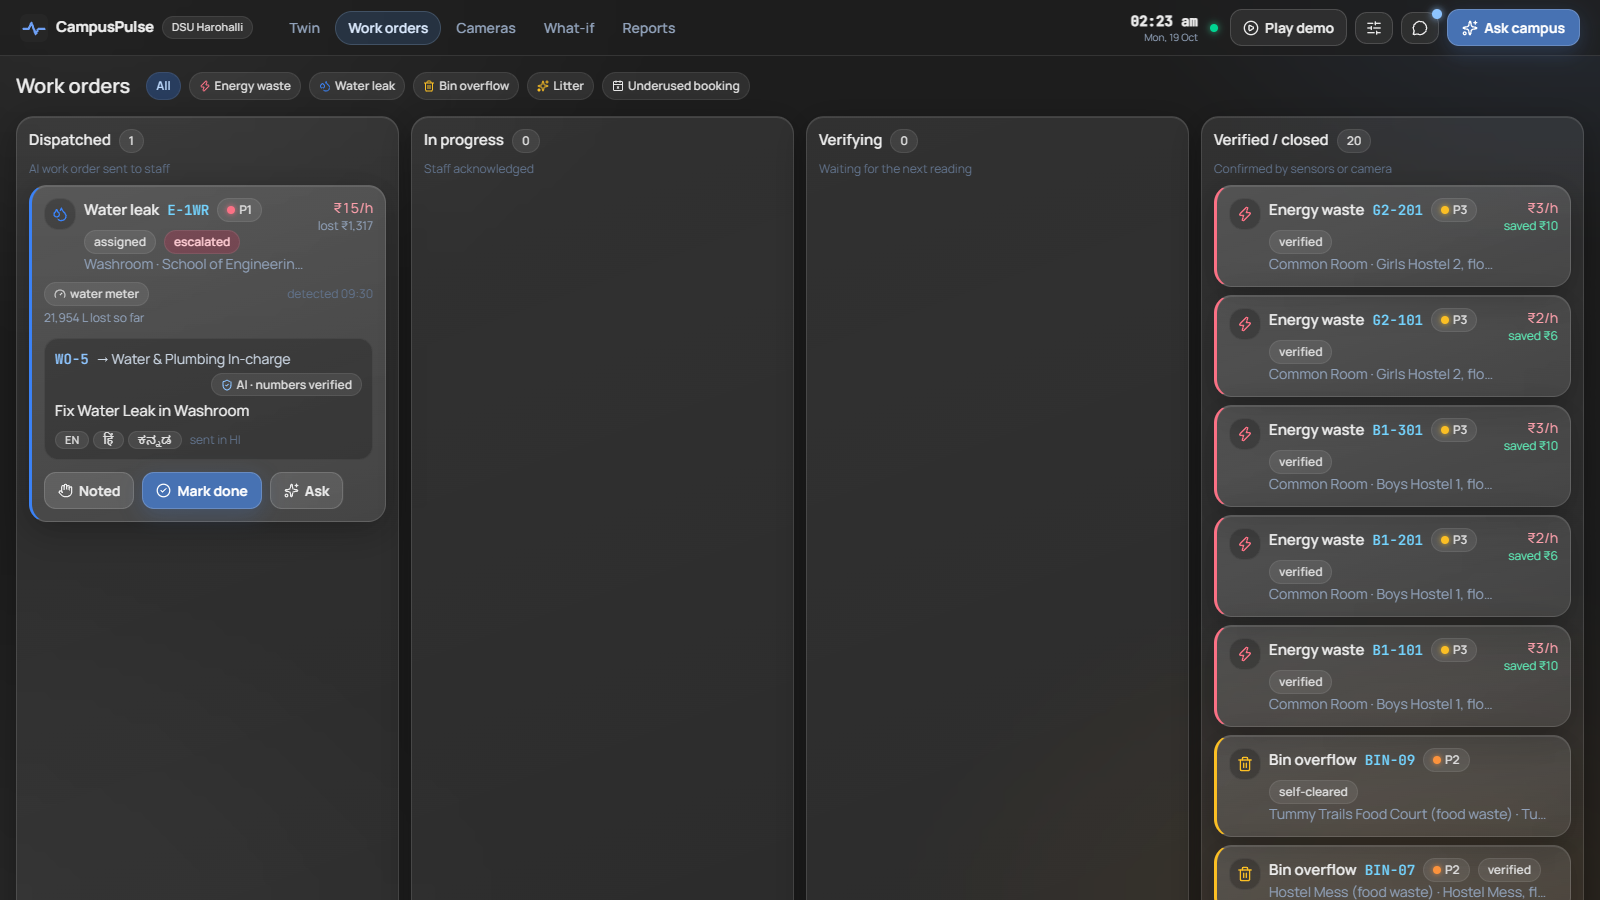
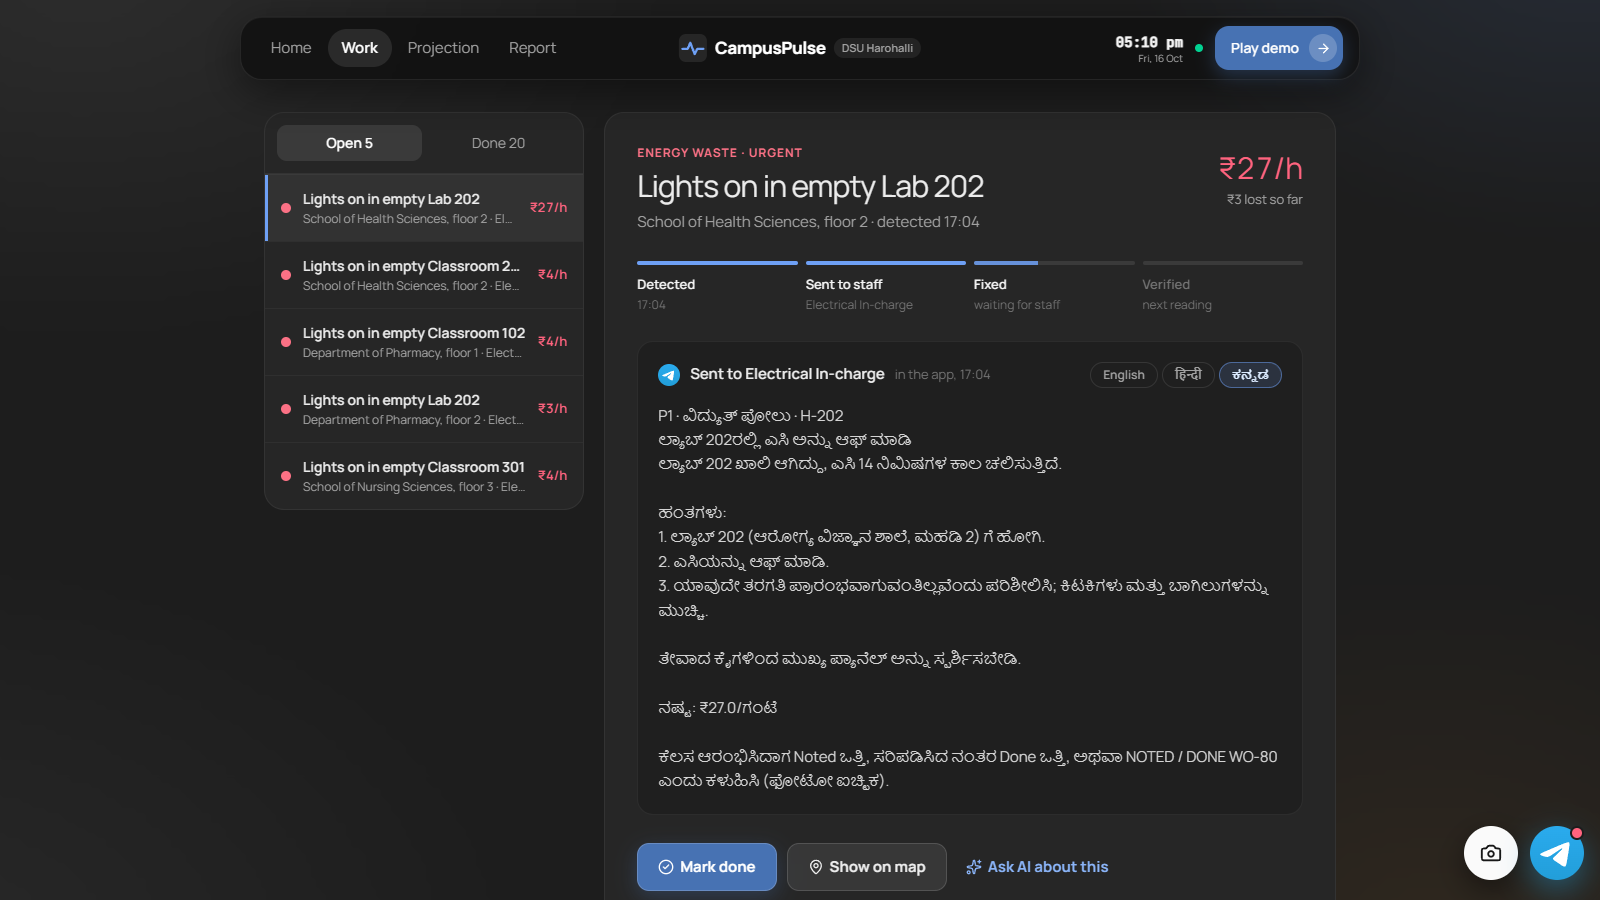
Work page: inbox list with work order detail, progress steps and the staff message

diff --git a/frontend/src/pages/IssuesPage.jsx b/frontend/src/pages/IssuesPage.jsx
@@ -1,46 +1,192 @@
-import { useState } from 'react'
-import IssueCard from '../components/IssueCard'
+// Work: an inbox of work orders on the left, the selected one in detail on the right.
+import { useEffect, useState } from 'react'
+import { useNavigate } from 'react-router-dom'
+import { CheckCircle2, MapPin, Sparkles } from 'lucide-react'
+import { api, hhmm, inr } from '../api'
 import { TYPE_META, useStore } from '../store'
-import { TypeIcon } from '../components/Icons'
+import TelegramIcon from '../components/TelegramIcon'
 
-const COLUMNS = [
-  { key: 'new', title: 'Dispatched', statuses: ['open', 'assigned'], hint: 'AI work order sent to staff' },
-  { key: 'progress', title: 'In progress', statuses: ['in_progress'], hint: 'Staff acknowledged' },
-  { key: 'verify', title: 'Verifying', statuses: ['resolved'], hint: 'Waiting for the next reading' },
-  { key: 'done', title: 'Verified / closed', statuses: ['verified', 'auto_closed', 'closed'], hint: 'Confirmed by sensors or camera' },
-]
+const DONE = ['verified', 'auto_closed', 'closed']
+const LANGS = [['en', 'English'], ['hi', 'हिन्दी'], ['kn', 'ಕನ್ನಡ']]
+const KIND = { ENERGY_WASTE: 'Energy waste', WATER_LEAK: 'Water leak', BIN_OVERFLOW: 'Waste', LITTER: 'Litter', UNDERUSED_BOOKING: 'Underused booking' }
+
+function title(i) {
+  const n = i.target_name || i.target
+  switch (i.type) {
+    case 'ENERGY_WASTE': return `Lights on in empty ${n}`
+    case 'WATER_LEAK': return `Water leak in ${n}`
+    case 'BIN_OVERFLOW': return `Bin overflowing at ${n}`
+    case 'LITTER': return `Litter reported at ${n}`
+    case 'UNDERUSED_BOOKING': return `${n} booked but empty`
+    default: return n
+  }
+}
+
+function subline(i, wo) {
+  if (i.status === 'resolved') return 'checking the fix'
+  if (i.escalated) return 'escalated'
+  if (DONE.includes(i.status)) return i.saved_inr > 0 ? `saved ${inr(i.saved_inr)}` : i.status === 'auto_closed' ? 'cleared by itself' : 'verified'
+  return wo?.assignee || 'not assigned yet'
+}
+
+// 4 steps: detected, sent to staff, fixed, verified; returns how many are complete
+function stepsDone(status) {
+  return { open: 1, assigned: 2, in_progress: 2, resolved: 3, verified: 4, auto_closed: 4, closed: 4 }[status] ?? 1
+}
+
+function Steps({ issue, wo }) {
+  const n = stepsDone(issue.status)
+  const steps = [
+    ['Detected', hhmm(issue.created_at)],
+    ['Sent to staff', wo ? `${wo.assignee}` : 'pending'],
+    ['Fixed', n > 2 ? 'staff tapped Done' : issue.status === 'in_progress' ? 'staff on it' : 'waiting for staff'],
+    ['Verified', n > 3 ? (issue.status === 'auto_closed' ? 'cleared by itself' : 'confirmed') : 'next reading'],
+  ]
+  return (
+    <ol aria-label="Progress" className="grid grid-cols-4 gap-2 mt-7">
+      {steps.map(([label, sub], k) => {
+        const state = k < n ? 'done' : k === n ? 'now' : 'todo'
+        return (
+          <li key={label} className="min-w-0">
+            <div className="h-1 rounded-full bg-[#3a3a3a] overflow-hidden">
+              <div className={`h-full bg-[#6ea0f5] ${state === 'done' ? 'w-full' : state === 'now' ? 'w-2/5 animate-pulse' : 'w-0'}`} />
+            </div>
+            <div className={`mt-2.5 text-[13px] font-semibold ${state === 'todo' ? 'text-neutral-500' : 'text-neutral-100'}`}>{label}</div>
+            <div className="text-xs text-neutral-500 mt-0.5 truncate">{sub}</div>
+          </li>
+        )
+      })}
+    </ol>
+  )
+}
+
+function Message({ wo, channel }) {
+  const [lang, setLang] = useState(wo.lang || 'en')
+  const [msg, setMsg] = useState(null)
+  useEffect(() => {
+    let alive = true
+    setMsg(null)
+    api.get(`/api/workorders/${wo.id}?lang=${lang}`).then((r) => alive && setMsg(r.message)).catch(() => {})
+    return () => { alive = false }
+  }, [wo.id, lang, wo.source])
+  return (
+    <div className="mt-7 rounded-2xl bg-[#1f1f1f] border border-white/[0.06] p-5">
+      <div className="flex items-center gap-2.5 flex-wrap">
+        <TelegramIcon size={22} />
+        <span className="font-semibold">Sent to {wo.assignee}</span>
+        <span className="text-neutral-500 text-[13px]">{channel === 'telegram' ? 'on Telegram' : 'in the app'}, {hhmm(wo.created_at)}</span>
+        <div role="group" aria-label="Language" className="ml-auto flex gap-1">
+          {LANGS.map(([code, label]) => (
+            <button key={code} onClick={() => setLang(code)}
+              className={`rounded-full px-3 py-1 text-xs font-semibold border transition
+                ${lang === code ? 'border-[#6ea0f5]/50 bg-[#6ea0f5]/15 text-blue-100' : 'border-white/10 text-neutral-400 hover:text-neutral-200'}`}>
+              {label}
+            </button>
+          ))}
+        </div>
+      </div>
+      <p className="mt-4 text-[15px] leading-relaxed text-neutral-300 whitespace-pre-line min-h-[3rem]">{msg ?? 'Loading…'}</p>
+    </div>
+  )
+}
+
+function Detail({ issue }) {
+  const wo = useStore((s) => s.snap?.workorders?.[issue.wo])
+  const channel = useStore((s) => s.snap?.channel)
+  const openCopilot = useStore((s) => s.openCopilot)
+  const select = useStore((s) => s.select)
+  const nav = useNavigate()
+  const [busy, setBusy] = useState(false)
+  const meta = TYPE_META[issue.type] || {}
+  const live = !DONE.includes(issue.status)
+
+  const done = async () => {
+    setBusy(true)
+    try { await api.post(`/api/issues/${issue.id}/resolve`) } finally { setBusy(false) }
+  }
+
+  return (
+    <div className="pop">
+      <div className="flex items-start gap-4 flex-wrap">
+        <div className="min-w-0">
+          <div className="text-xs font-bold tracking-[0.08em] uppercase" style={{ color: meta.color }}>
+            {KIND[issue.type] || meta.label}{issue.priority === 'P1' && live ? ' · Urgent' : ''}{issue.escalated && live ? ' · Escalated' : ''}
+          </div>
+          <h1 className="mt-1.5 text-2xl md:text-[30px] font-normal tracking-tight leading-tight">{title(issue)}</h1>
+          <p className="mt-1.5 text-neutral-400">{issue.location} · detected {hhmm(issue.created_at)}</p>
+        </div>
+        <div className="ml-auto text-right">
+          {issue.rate_inr_hr > 0 && <div className="text-[30px] font-light text-rose-400 tabular-nums">{inr(issue.rate_inr_hr)}/h</div>}
+          {issue.saved_inr > 0 ? <div className="text-emerald-300 text-[13px]">{inr(issue.saved_inr)} saved</div>
+            : issue.loss_inr > 0 && <div className="text-neutral-400 text-[13px]">{inr(issue.loss_inr)} lost so far</div>}
+        </div>
+      </div>
+
+      <Steps issue={issue} wo={wo} />
+
+      {issue.evidence?.description && <p className="mt-6 text-neutral-300">“{issue.evidence.description}”</p>}
+      {issue.photo && <img src={issue.photo} alt="Reported photo" className="mt-4 rounded-xl max-h-52 object-cover" />}
+
+      {wo && <Message key={wo.id} wo={wo} channel={channel} />}
+
+      <div className="flex gap-2.5 mt-7 flex-wrap">
+        {live && issue.status !== 'resolved' && (
+          <button className="btn btn-primary !px-5 !py-3 !text-[15px]" disabled={busy} onClick={done}><CheckCircle2 size={16} /> Mark done</button>
+        )}
+        <button className="btn !px-5 !py-3 !text-[15px]" onClick={() => { select(issue.target); nav('/') }}><MapPin size={16} /> Show on map</button>
+        <button className="btn !bg-transparent !border-transparent !text-[#8ab4f8] !px-2 !py-3 !text-[15px]"
+          onClick={() => openCopilot(`Explain ${issue.id} at ${issue.target} and what we should do about it.`)}>
+          <Sparkles size={16} /> Ask AI about this
+        </button>
+      </div>
+    </div>
+  )
+}
 
 export default function IssuesPage() {
   const snap = useStore((s) => s.snap)
-  const [type, setType] = useState('all')
-  const issues = snap.issues.filter((i) => type === 'all' || i.type === type)
+  const [tab, setTab] = useState('open')
+  const [selId, setSelId] = useState(null)
+  const open = snap.issues.filter((i) => !DONE.includes(i.status))
+  const done = snap.issues.filter((i) => DONE.includes(i.status))
+  const list = tab === 'open' ? open : done
+  const sel = list.find((i) => i.id === selId) || list[0]
+
   return (
-    <div className="p-3 md:p-4">
-      <div className="flex items-center gap-2 mb-4 flex-wrap">
-        <h1 className="text-xl font-semibold mr-2">Work orders</h1>
-        {['all', ...Object.keys(TYPE_META)].map((t) => (
-          <button key={t} onClick={() => setType(t)} className={`chip !py-1 ${type === t ? '!bg-blue-500/25 !text-blue-200' : ''}`}>
-            {t === 'all' ? 'All' : <><TypeIcon type={t} size={12} />{TYPE_META[t].label}</>}
-          </button>
-        ))}
-      </div>
-      <div className="grid grid-cols-1 sm:grid-cols-2 xl:grid-cols-4 gap-3">
-        {COLUMNS.map((c) => {
-          const list = issues.filter((i) => c.statuses.includes(i.status))
-          return (
-            <div key={c.key} className="min-w-0 glass p-3">
-              <div className="flex items-baseline gap-2 mb-2">
-                <div className="font-semibold">{c.title}</div>
-                <span className="chip">{list.length}</span>
-              </div>
-              <div className="text-xs text-slate-500 mb-2">{c.hint}</div>
-              <div className="space-y-2">
-                {list.map((i) => <IssueCard key={i.id} issue={i} compact={c.key === 'done'} />)}
-              </div>
-            </div>
-          )
-        })}
-      </div>
+    <div className="p-3 md:p-6 max-w-[1120px] mx-auto flex flex-wrap gap-5 items-start">
+      <section aria-label="Work orders" className="flex-[1_1_320px] md:max-w-[380px] w-full rounded-[20px] bg-[#262626] border border-white/[0.06] overflow-hidden">
+        <div className="flex gap-1 p-3 border-b border-white/[0.06]">
+          {[['open', `Open ${open.length}`], ['done', `Done ${done.length}`]].map(([k, label]) => (
+            <button key={k} onClick={() => { setTab(k); setSelId(null) }}
+              className={`flex-1 rounded-[10px] py-2 text-sm transition ${tab === k ? 'bg-[#3a3a3a] text-white font-semibold' : 'text-neutral-400 hover:text-neutral-200'}`}>
+              {label}
+            </button>
+          ))}
+        </div>
+        <div className="max-h-[calc(100vh-220px)] overflow-auto">
+          {list.map((i) => {
+            const active = sel?.id === i.id
+            const meta = TYPE_META[i.type] || {}
+            return (
+              <button key={i.id} onClick={() => setSelId(i.id)}
+                className={`w-full text-left flex items-center gap-3 px-4 py-3.5 border-t border-white/[0.04] transition
+                  ${active ? 'bg-[#323232] shadow-[inset_3px_0_0_#6ea0f5]' : 'hover:bg-white/[0.03]'}`}>
+                <span className="w-2.5 h-2.5 rounded-full shrink-0" style={{ background: meta.color }} />
+                <span className="flex-1 min-w-0">
+                  <span className="block font-semibold text-sm truncate">{title(i)}</span>
+                  <span className="block text-xs text-neutral-400 mt-0.5 truncate">{i.location} · {subline(i, snap.workorders?.[i.wo])}</span>
+                </span>
+                {i.rate_inr_hr > 0 && tab === 'open' && <span className="text-[13px] font-semibold text-rose-400 tabular-nums">{inr(i.rate_inr_hr)}/h</span>}
+              </button>
+            )
+          })}
+          {!list.length && <div className="p-6 text-sm text-neutral-500">{tab === 'open' ? 'Nothing open. The campus is running clean.' : 'Nothing fixed yet.'}</div>}
+        </div>
+      </section>
+
+      <section aria-label="Selected work order" className="flex-[999_1_560px] min-w-0 rounded-[20px] bg-[#262626] border border-white/[0.06] p-5 md:p-8">
+        {sel ? <Detail key={sel.id} issue={sel} /> : <div className="text-neutral-500">Select a work order to see it here.</div>}
+      </section>
     </div>
   )
 }
